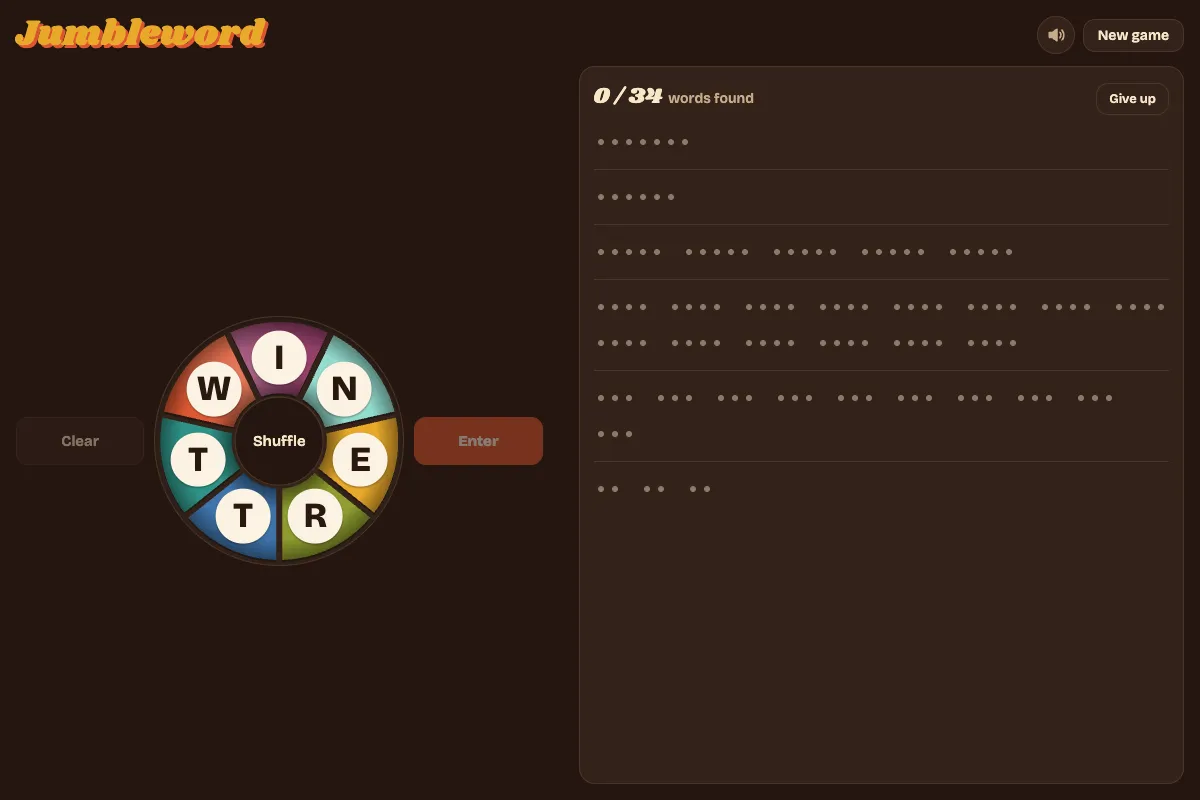
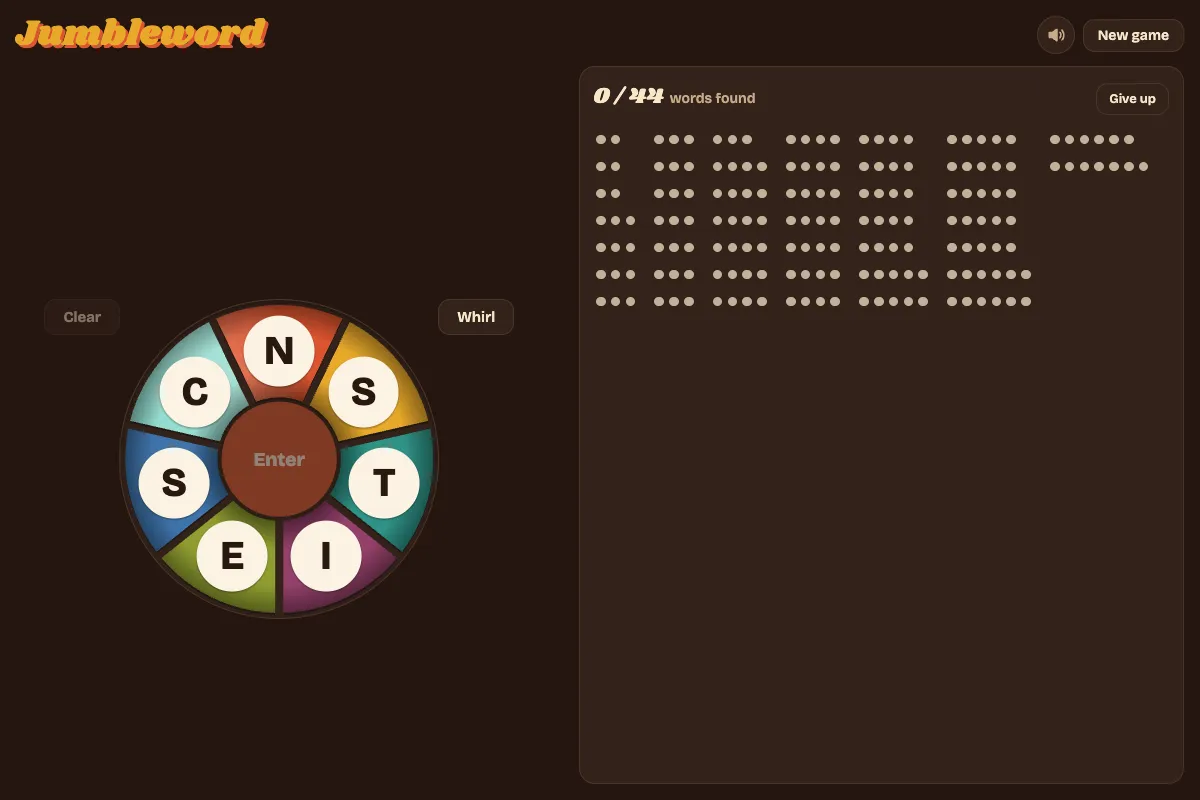
Jumbleword: compact columns of dots for the hidden words (dropping plurals, then the longest, when a small phone can't fit them), a bonus-words box only as tall as it needs, and a bigger dial with Enter in the hub, Clear and Whirl beside it

diff --git a/static-assets/toys/jumbleword/index.html b/static-assets/toys/jumbleword/index.html
@@ -12,7 +12,7 @@
 <link rel="preconnect" href="https://fonts.gstatic.com" crossorigin>
 <link rel="stylesheet" href="https://fonts.googleapis.com/css2?family=Shrikhand&family=Bricolage+Grotesque:opsz,wght@12..96,400;12..96,600;12..96,800&display=swap">
 <style>
-/* Layout: one narrow column — word tray, the dial of balls flanked by Clear and Enter, then the word board. Single committed look: a 70s bingo hall at night. */
+/* Layout: one narrow column — the word you are spelling, the dial of balls with Enter in its hub, then the word card. Single committed look: a 70s bingo hall at night. */
 :root {
   color-scheme: dark;
   --bg: #24160f;
@@ -50,8 +50,8 @@ h1 { font-family: var(--display); font-weight: 400; font-size: 30px; line-height
 .seg button:focus-visible, .btn:focus-visible, .ball:focus-visible { outline: 2px solid var(--ink); outline-offset: 2px; }
 
 .play { container-type: inline-size; display: flex; flex-direction: column; gap: 14px; min-width: 0;
-  --d: min(250px, 50cqi); }
-/* The rack is a dial: a ring cut into one segment per ball, each letter on a cream disc in its segment, Shuffle in the hub.
+  --d: min(320px, 62cqi); }
+/* The rack is a dial: a ring cut into one segment per ball, each letter on a cream disc in its segment, Enter in the hub.
    Every slot and ball covers the whole dial and is clipped to its own segment, so the shading can be centred on the hub. */
 .dial { position: relative; width: var(--d); aspect-ratio: 1; justify-self: center; }
 .rack { position: absolute; inset: 0; border-radius: 50%; background: var(--panel); border: 1px solid var(--line); box-shadow: inset 0 3px 8px #0006; }
@@ -60,13 +60,13 @@ h1 { font-family: var(--display); font-weight: 400; font-size: 30px; line-height
 .rack .ball { position: absolute; inset: 0; width: auto; height: auto; border-radius: 0; clip-path: var(--clip); pointer-events: auto; box-shadow: none;
   background: radial-gradient(circle at 32% 22%, #ffffff38 0, transparent 26%),
     radial-gradient(circle closest-side, color-mix(in srgb, var(--c) 55%, #000) 40%, var(--c) 58%, var(--c) 82%, color-mix(in srgb, var(--c) 60%, #000) 100%); }
-.rack .ball span { position: absolute; left: var(--x); top: var(--y); width: 23%; translate: -50% -50%; font-size: calc((var(--d) - 10px) * .145); box-shadow: 0 1px 2px #0006; }
+.rack .ball span { position: absolute; left: var(--x); top: var(--y); width: 23%; translate: -50% -50%; font-size: calc((var(--d) - 10px) * .13); box-shadow: 0 1px 2px #0006; }
 .rack .ball:focus-visible { outline: none; }
 .rack .ball:focus-visible span { outline: 3px solid var(--ink); outline-offset: 2px; }
 .rack .ball.used { transform: scale(.94); }
 .rack .ball:not(.used):active { transform: scale(.97); }
-.dial .shuffle { position: absolute; left: 50%; top: 50%; translate: -50% -50%; width: calc((var(--d) - 10px) * .37); aspect-ratio: 1; padding: 0; border-radius: 50%;
-  font-size: clamp(12px, calc(var(--d) * .065), 15px); background: var(--bg); }
+.dial .hub { position: absolute; left: 50%; top: 50%; translate: -50% -50%; width: calc((var(--d) - 10px) * .37); aspect-ratio: 1; padding: 0; border-radius: 50%;
+  font-size: clamp(14px, calc(var(--d) * .06), 20px); box-shadow: 0 0 0 4px var(--bg); }
 
 .ball { --c: var(--tomato); width: var(--b); height: var(--b); border-radius: 50%; border: 0; padding: 0; cursor: pointer; position: relative;
   background: radial-gradient(circle at 34% 28%, #ffffff70 0 7%, transparent 18%), radial-gradient(circle at 50% 50%, var(--c) 0 55%, color-mix(in srgb, var(--c) 55%, #000) 100%);
@@ -80,18 +80,23 @@ h1 { font-family: var(--display); font-weight: 400; font-size: 30px; line-height
 .roam { position: fixed; inset: 0; z-index: 50; pointer-events: none; }
 .roam .ball { position: absolute; left: 0; top: 0; transition: none; box-shadow: 0 8px 10px #0006; will-change: transform; }
 
-.tray { min-height: 54px; display: flex; justify-content: center; align-items: center; gap: 4px; flex-wrap: wrap; }
+.tray { min-height: 54px; grid-area: 1 / 1; display: flex; justify-content: center; align-items: center; gap: 4px; flex-wrap: wrap; }
 .tray .ball { --b: 40px; }
 .tray.bad { animation: shake .35s; }
 @keyframes shake { 20%, 60% { transform: translateX(-7px) } 40%, 80% { transform: translateX(7px) } }
 
-.controls { display: grid; grid-template-columns: 1fr var(--d) 1fr; align-items: center; gap: 10px; }
-.controls > .btn { padding-block: 14px; }
+/* The word being spelt and the last message share one row: the message gives way as soon as a ball is picked */
+.spell { display: grid; place-items: center; }
+.spell:has(.tray .ball) .msg { visibility: hidden; }
+/* Clear and Whirl sit in the top corners, outside the ring */
+.controls { position: relative; display: grid; justify-items: center; width: min(100%, calc(var(--d) + 150px)); align-self: center; }
+.controls > .btn { position: absolute; top: 0; z-index: 1; min-width: 76px; padding: 8px 12px; }
+#clear { left: 0; } #shuffle { right: 0; }
 .btn { font: 600 15px var(--body); color: var(--ink); background: var(--panel); border: 1px solid var(--line); border-radius: 12px; padding: 11px 10px; cursor: pointer; }
 .btn.primary { background: var(--tomato); border-color: var(--tomato); color: #fff8ea; font-weight: 800; }
 .btn:disabled { opacity: .45; cursor: default; }
 
-.msg { text-align: center; min-height: 22px; font-weight: 600; color: var(--muted); }
+.msg { grid-area: 1 / 1; text-align: center; min-height: 22px; font-weight: 600; color: var(--muted); }
 .msg.good { color: var(--mustard); }
 .msg.big { font-family: var(--display); font-weight: 400; font-size: 22px; color: var(--mustard); }
 
@@ -102,14 +107,13 @@ h1 { font-family: var(--display); font-weight: 400; font-size: 30px; line-height
 .bonus h3 { margin: 0; display: flex; flex-wrap: wrap; align-items: baseline; gap: 2px 8px; font-size: .875rem; letter-spacing: .06em; text-transform: uppercase; color: var(--ink); font-weight: 800; }
 .bonus h3 span { font-weight: 600; letter-spacing: .02em; text-transform: none; color: var(--muted); font-variant-numeric: tabular-nums; }
 /* The word card: one row of words per length, longest first, split by faint rules. Unfound letters are small dots. */
-.words { display: flex; flex-wrap: wrap; gap: 6px 18px; list-style: none; margin: 0; padding: 12px 0; }
-.words:first-child { padding-top: 0; }
-.words:last-child { padding-bottom: 0; }
-.words + .words { border-top: 1px solid color-mix(in srgb, var(--ink) 11%, transparent); }
-.w { display: inline-flex; align-items: center; height: 1.5em; font: 800 1.125rem / 1 var(--body); text-transform: uppercase; letter-spacing: .04em; }
-.w .dot { width: .7em; height: 100%; display: grid; place-items: center; }
-.w .dot::before { content: ""; width: 6px; height: 6px; border-radius: 50%; background: var(--slot); }
-.w .ch { display: inline-block; }
+/* The word card: columns of words, shortest first, filled top to bottom. Every letter, found or not, takes one cell,
+   so a found word fills exactly the space its dots did and the columns never shift. JS sets --rows to fit the card. */
+.words { display: grid; grid-auto-flow: column; grid-template-rows: repeat(var(--rows, 8), auto); grid-auto-columns: max-content;
+  gap: 2px 14px; list-style: none; margin: 0; padding: 0; }
+.w { display: flex; align-items: center; height: 1.25em; font: 800 1.125rem / 1 var(--body); text-transform: uppercase; }
+.w > span { width: .74em; height: 100%; display: grid; place-items: center; }
+.w .dot::before { content: ""; width: .48em; height: .48em; border-radius: 50%; background: color-mix(in srgb, var(--ink) 72%, var(--panel)); }
 .w.found { color: var(--mustard); }
 .w.missed { color: color-mix(in srgb, var(--ink) 48%, var(--panel)); }
 .w.fresh .ch { animation: flip .45s backwards; }
@@ -117,13 +121,13 @@ h1 { font-family: var(--display); font-weight: 400; font-size: 30px; line-height
 .legend { display: flex; flex-wrap: wrap; gap: 6px 14px; font-size: .8125rem; font-weight: 800; letter-spacing: .06em; text-transform: uppercase; }
 .legend .lf { color: var(--mustard); } .legend .lm { color: color-mix(in srgb, var(--ink) 48%, var(--panel)); }
 
-.bonus { display: flex; flex-direction: column; gap: 10px; padding: 12px; border-radius: 12px; background: color-mix(in srgb, var(--mint) 9%, var(--panel)); border: 2px solid color-mix(in srgb, var(--mint) 35%, var(--panel)); }
+.bonus { display: flex; flex-direction: column; gap: 6px; padding: 8px 12px; border-radius: 12px; background: color-mix(in srgb, var(--mint) 9%, var(--panel)); border: 2px solid color-mix(in srgb, var(--mint) 35%, var(--panel)); }
 .other-box { background: transparent; border: 0; border-top: 2px solid var(--line); border-radius: 0; padding: 14px 0 0; }
-.chips { display: flex; flex-wrap: wrap; gap: 8px; list-style: none; margin: 0; padding: 0; }
-.chip { font: 800 1.125rem / 1 var(--body); letter-spacing: .08em; text-transform: uppercase; padding: 8px 12px 7px; border-radius: 999px;
-  background: var(--mint); color: var(--mint-ink); }
+/* Words off the card, in balanced columns as wide as the longest word (JS sets --len), so the box is as short as it can be */
+.chips { columns: auto calc(var(--len, 5) * .78em); column-gap: 16px; list-style: none; margin: 0; padding: 0; font: 800 1.0625rem / 1.3 var(--body); }
+.chip { letter-spacing: .04em; text-transform: uppercase; color: var(--mint); break-inside: avoid; }
 .chip.fresh { animation: pop .4s; }
-.chip.other { background: color-mix(in srgb, var(--ink) 16%, var(--panel)); color: var(--ink); font-size: 1rem; padding: 7px 11px 6px; }
+.chip.other { color: var(--ink); }
 @keyframes pop { 0% { transform: scale(.4); } 70% { transform: scale(1.12); } 100% { transform: none; } }
 .giveup { display: flex; gap: 8px; align-items: center; flex-wrap: wrap; font-size: 14px; }
 .giveup .btn { padding: 7px 12px; font-size: 13px; }
@@ -164,22 +168,18 @@ h1 { font-family: var(--display); font-weight: 400; font-size: 30px; line-height
   html, body { height: 100%; }
   .wrap { height: 100%; padding-block: 10px 12px; gap: 10px; }
   header { order: 1; } .board { order: 2; } .play { order: 3; }
-  .play { gap: 6px; }
-  .msg { order: 1; min-height: 20px; } .tray { order: 2; min-height: 44px; } .controls { order: 3; }
-  .play { --d: min(190px, 48cqi); }
+  .play { gap: 4px; --d: min(90cqi, 38dvh); }
+  .tray { min-height: 44px; }
   .board { flex: 1 1 auto; min-height: 0; overflow-y: auto; overscroll-behavior: contain; padding: 10px 12px; gap: 4px; }
   /* Readable at arm's length: the card's words grow with the screen (about 23px on the largest iPhones) and sit tight together */
   .wrap { padding-inline: max(10px, env(safe-area-inset-left, 0px)) max(10px, env(safe-area-inset-right, 0px)); }
-  .w { font-size: clamp(1.25rem, 5.4vw, 1.5rem); height: 1.12em; letter-spacing: .02em; }
-  .w .dot { width: .62em; }
-  .w .dot::before { width: max(6px, .26em); height: max(6px, .26em); }
-  .words { gap: 2px 14px; padding-block: 5px; }
-  .chip { font-size: 1.25rem; padding: 7px 12px 6px; }
-  .chip.other { font-size: 1.125rem; }
-  .chips { gap: 6px; }
-  .bonus { padding: 8px 10px; gap: 6px; }
+  .w { font-size: clamp(1rem, 4.4vw, 1.25rem); }
+  .words { column-gap: 12px; }
+  .chips { font-size: clamp(1.0625rem, 4.4vw, 1.25rem); }
+  .bonus { padding: 6px 10px; gap: 4px; }
   .count { font-size: 1.6rem; }
-  .bonus h3, .legend { font-size: .9375rem; }
+  .legend { font-size: .9375rem; }
+  .bonus h3 { font-size: .75rem; }
 }
 
 /* Tablet / desktop landscape: play column on the left, word board on the right, board scrolls on its own. */
@@ -205,15 +205,16 @@ h1 { font-family: var(--display); font-weight: 400; font-size: 30px; line-height
   .tools .btn { padding: 4px 10px; font-size: 12px; }
   .tools .icon-btn { width: 28px; height: 28px; padding: 0; }
   .icon-btn svg { width: 16px; height: 16px; }
-  .play { grid-column: 1; grid-row: 2; align-self: center; gap: 6px; --d: min(48cqi, 100dvh - 136px); }
+  .play { grid-column: 1; grid-row: 2; align-self: center; gap: 6px; --d: min(64cqi, 100dvh - 110px); }
   .board { grid-column: 2; grid-row: 2; min-height: 0; overflow-y: auto; padding: 10px; gap: 10px; }
   .tray { min-height: 44px; }
   .tray .ball { --b: 34px; }
   .btn, .controls > .btn { padding: 8px 10px; }
+  .controls > .btn { min-width: 0; padding: 6px 10px; }
   .count { font-size: 17px; }
   .w { font-size: 1rem; }
-  .words { padding-block: 5px; gap: 2px 14px; }
-  .chip { font-size: 1rem; padding: 6px 10px 5px; }
+  .words { gap: 2px 14px; }
+  .chips { font-size: 1rem; }
   .intro { padding: 16px; }
   .demo, .intro h2 { display: none; }
   .rules { gap: 5px; margin-bottom: 12px; font-size: 14px; }
@@ -238,16 +239,18 @@ input,textarea{-webkit-user-select:text;user-select:text}
   </header>
 
   <div class="play">
-  <div class="tray" id="tray" aria-live="polite" aria-label="Your word"></div>
+  <div class="spell">
+    <div class="tray" id="tray" aria-live="polite" aria-label="Your word"></div>
+    <div class="msg" id="msg" aria-live="polite"></div>
+  </div>
   <div class="controls">
     <button class="btn" id="clear" disabled>Clear</button>
     <div class="dial">
       <div class="rack" id="rack" aria-label="Your letters"></div>
-      <button class="btn shuffle" id="shuffle" disabled>Shuffle</button>
+      <button class="btn primary hub" id="enter" disabled>Enter</button>
     </div>
-    <button class="btn primary" id="enter" disabled>Enter</button>
+    <button class="btn" id="shuffle" disabled>Whirl</button>
   </div>
-  <div class="msg" id="msg" aria-live="polite"></div>
   </div>
 
   <section class="board">
@@ -256,8 +259,8 @@ input,textarea{-webkit-user-select:text;user-select:text}
       <div class="giveup" id="giveup"></div>
     </div>
     <div class="legend" id="legend" aria-hidden="true" hidden></div>
-    <div class="bonus" id="bonus" aria-live="polite" hidden></div>
     <div id="groups"></div>
+    <div class="bonus" id="bonus" aria-live="polite" hidden></div>
     <div class="bonus other-box" id="bonusOther" hidden></div>
   </section>
 </div>
@@ -270,8 +273,8 @@ input,textarea{-webkit-user-select:text;user-select:text}
     <li style="--c: var(--mustard)">Find every word hidden in the balls to <b>fill the card</b>. Each one is a row of dots until you find it.</li>
     <li style="--c: var(--teal)">A word that uses every ball is a <b>House!</b></li>
     <li style="--c: var(--mint)"><b>Bonus words</b> are real words too unusual for the card, like <b>QI</b> or <b>ROTA</b>. They score too.</li>
-    <li style="--c: var(--plum)"><b>Shuffle</b> sends the balls flying to help you see new words.</li>
-    <li style="--c: var(--blue)" class="keys">On a keyboard, type letters, <b>Enter</b> to submit, <b>Backspace</b> to undo and <b>Space</b> to shuffle.</li>
+    <li style="--c: var(--plum)"><b>Whirl</b> sends the balls flying to help you see new words.</li>
+    <li style="--c: var(--blue)" class="keys">On a keyboard, type letters, <b>Enter</b> to submit, <b>Backspace</b> to undo and <b>Space</b> to whirl.</li>
   </ul>
   <h3 id="ballsLabel">How many balls?</h3>
   <div class="seg" id="lengths" role="group" aria-labelledby="ballsLabel">
@@ -426,10 +429,11 @@ function newGame(n, restore) {
   const used = S && S.used ? S.used : new Set(); used.add(p.l);
   const letters = shuffleArr([...p.l]).map((ch, i) => ({ ch, ci: i % COLORS.length, id: i }));
   S = { n, key: p.l, used, letters, order: letters.map((_, i) => i), sel: [],
-        targets: p.t.split(','), bonus: new Set(p.b ? p.b.split(',') : []),
+        targets: p.t.split(','), bonus: new Set(p.b ? p.b.split(',') : []), rows: 8,
         found: new Set(restore ? restore.found : []), bonusFound: restore ? restore.bonusFound : [], gaveUp: !!(restore && restore.gaveUp), confirming: false };
+  if (restore && restore.targets) { S.targets.filter(w => !restore.targets.includes(w)).forEach(w => S.bonus.add(w)); S.targets = restore.targets; }
   buildRack();
-  renderBoard(); renderTray(); say(''); setControls();
+  fitCard(!(restore && restore.targets)); renderTray(); say(''); setControls();
   if (!restore) dropIn();
 }
 // One segment of the dial, as a polygon in percentages of the slot so that it scales with the dial.
@@ -597,24 +601,49 @@ function submit() {
   bad(`${w.toUpperCase()} isn't in the word list`);
 }
 
+// The card has to fit the screen without scrolling, in as few rows as will go across. The word lists carry no
+// frequency information, so when the words will not fit, they come off in this order as a stand-in for the least
+// common: an -s or -es form of another word on the card, then the longest words. Words already found and House
+// words always stay. A dropped word becomes a bonus word, so playing it still counts. Only a new card drops words;
+// a resize just reflows the columns.
+const byLength = ws => ws.slice().sort((a, b) => a.length - b.length || (a < b ? -1 : 1));
+function fitCard(mayDrop) {
+  S.rows = 99; renderBoard();
+  const board = document.querySelector('.board'), g = $('groups'), ul = g.querySelector('.words'), li = ul && ul.firstElementChild;
+  if (!li || !board.clientHeight) return;
+  const bs = getComputedStyle(board), us = getComputedStyle(ul), px = v => parseFloat(v) || 0;
+  const cell = li.firstElementChild.getBoundingClientRect().width, rowH = li.getBoundingClientRect().height;
+  const rg = px(us.rowGap), cg = px(us.columnGap);
+  // Leave room under the words for a line or two of bonus words
+  const reserve = Math.min(64, board.clientHeight * .2);
+  const availH = board.clientHeight - px(bs.paddingTop) - px(bs.paddingBottom) - document.querySelector('.board-head').offsetHeight - px(bs.rowGap) - reserve;
+  const availW = g.clientWidth, maxRows = Math.max(3, Math.floor((availH + rg) / (rowH + rg)));
+  const width = (ws, rows) => { let w = -cg; for (let i = 0; i < ws.length; i += rows) w += cg + Math.max(...ws.slice(i, i + rows).map(x => x.length)) * cell; return w; };
+  const all = new Set(S.targets);
+  const inflected = w => /s$/.test(w) && (all.has(w.slice(0, -1)) || (/es$/.test(w) && all.has(w.slice(0, -2))));
+  const longest = ws => ws.sort((a, b) => b.length - a.length || (a < b ? 1 : -1));
+  const queue = mayDrop ? [...new Set([...longest(S.targets.filter(inflected)), ...longest(S.targets.slice())])].filter(w => w.length < S.n && !S.found.has(w)) : [];
+  for (;;) {
+    const ws = byLength(S.targets);
+    for (let rows = 1; rows <= maxRows; rows++) if (width(ws, rows) <= availW) { S.rows = rows; return renderBoard(); }
+    if (!queue.length) { S.rows = maxRows; return renderBoard(); }
+    const w = queue.shift(); S.targets = S.targets.filter(x => x !== w); S.bonus.add(w);
+  }
+}
+addEventListener('resize', () => { if (S) fitCard(false); });
 function renderBoard(fresh) {
   const g = $('groups'); g.innerHTML = '';
-  const byLen = {};
-  S.targets.forEach(w => (byLen[w.length] ||= []).push(w));
-  Object.keys(byLen).sort((a, b) => b - a).forEach(len => {
-    const box = document.createElement('ul'); box.className = 'words';
-    const ws = byLen[len];
-    box.setAttribute('aria-label', `${len}-letter words, ${ws.filter(w => S.found.has(w)).length} of ${ws.length} found`);
-    ws.forEach(w => {
-      const el = document.createElement('li');
-      const found = S.found.has(w), missed = S.gaveUp && !found, shown = found || missed;
-      el.className = 'w' + (found ? ' found' : '') + (missed ? ' missed' : '') + (w === fresh ? ' fresh' : '');
-      el.setAttribute('aria-label', found ? w : missed ? `${w}, not found` : `hidden ${len}-letter word`);
-      [...w].forEach((ch, i) => { const c = document.createElement('span'); c.className = shown ? 'ch' : 'dot'; c.setAttribute('aria-hidden', 'true');
-        if (shown) c.textContent = ch; if (w === fresh) c.style.animationDelay = i * 60 + 'ms'; el.appendChild(c); });
-      box.appendChild(el);
-    });
-    g.appendChild(box);
+  const box = document.createElement('ul'); box.className = 'words'; box.style.setProperty('--rows', S.rows);
+  box.setAttribute('aria-label', `Hidden words, ${S.found.size} of ${S.targets.length} found`);
+  g.appendChild(box);
+  byLength(S.targets).forEach(w => {
+    const el = document.createElement('li');
+    const found = S.found.has(w), missed = S.gaveUp && !found, shown = found || missed;
+    el.className = 'w' + (found ? ' found' : '') + (missed ? ' missed' : '') + (w === fresh ? ' fresh' : '');
+    el.setAttribute('aria-label', found ? w : missed ? `${w}, not found` : `hidden ${w.length}-letter word`);
+    [...w].forEach((ch, i) => { const c = document.createElement('span'); c.className = shown ? 'ch' : 'dot'; c.setAttribute('aria-hidden', 'true');
+      if (shown) c.textContent = ch; if (w === fresh) c.style.animationDelay = i * 60 + 'ms'; el.appendChild(c); });
+    box.appendChild(el);
   });
   $('count').innerHTML = `${S.found.size} / ${S.targets.length}<small>words found</small>`;
   const legend = $('legend'); legend.hidden = !S.gaveUp;
@@ -625,11 +654,12 @@ function renderBoard(fresh) {
 function renderBonus(fresh) {
   const n = S.bonusFound.length, total = S.bonus.size;
   const chips = S.bonusFound.slice().reverse().map(w => `<li class="chip${w === fresh ? ' fresh' : ''}">${w}</li>`).join('');
+  const len = ws => Math.max(2, ...ws.map(w => w.length));
   $('bonus').hidden = !n && !S.gaveUp;
-  $('bonus').innerHTML = `<h3>Bonus words <span>${n} found${S.gaveUp ? ` of ${total}` : ''}</span></h3>` + (n ? `<ul class="chips" aria-label="Bonus words found">${chips}</ul>` : '');
+  $('bonus').innerHTML = `<h3>Bonus words <span>${n} found${S.gaveUp ? ` of ${total}` : ''}</span></h3>` + (n ? `<ul class="chips" style="--len: ${len(S.bonusFound)}" aria-label="Bonus words found">${chips}</ul>` : '');
   const rest = S.gaveUp ? [...S.bonus].filter(w => !S.bonusFound.includes(w)) : [];
   const o = $('bonusOther'); o.hidden = !rest.length;
-  o.innerHTML = rest.length ? `<h3>Other valid words <span>${rest.length} you could have played</span></h3><ul class="chips">${rest.map(w => `<li class="chip other">${w}</li>`).join('')}</ul>` : '';
+  o.innerHTML = rest.length ? `<h3>Other valid words <span>${rest.length} you could have played</span></h3><ul class="chips" style="--len: ${len(rest)}">${rest.map(w => `<li class="chip other">${w}</li>`).join('')}</ul>` : '';
 }
 function renderGiveUp() {
   const el = $('giveup');
@@ -851,7 +881,7 @@ addEventListener('keydown', e => {
 function start(data) {
   if (data && data.key && PUZ[data.n]) newGame(data.n, data); else openIntro();
 }
-window.claude?.hot?.snapshot?.(() => S && { n: S.n, key: S.key, found: [...S.found], bonusFound: S.bonusFound, gaveUp: S.gaveUp });
+window.claude?.hot?.snapshot?.(() => S && { n: S.n, key: S.key, found: [...S.found], bonusFound: S.bonusFound, gaveUp: S.gaveUp, targets: S.targets });
 const go = () => window.claude?.hot?.ready ? window.claude.hot.ready(start) : start(window.claude?.hot?.data ?? {});
 (document.fonts ? document.fonts.ready : Promise.resolve()).then(go);
 })();
